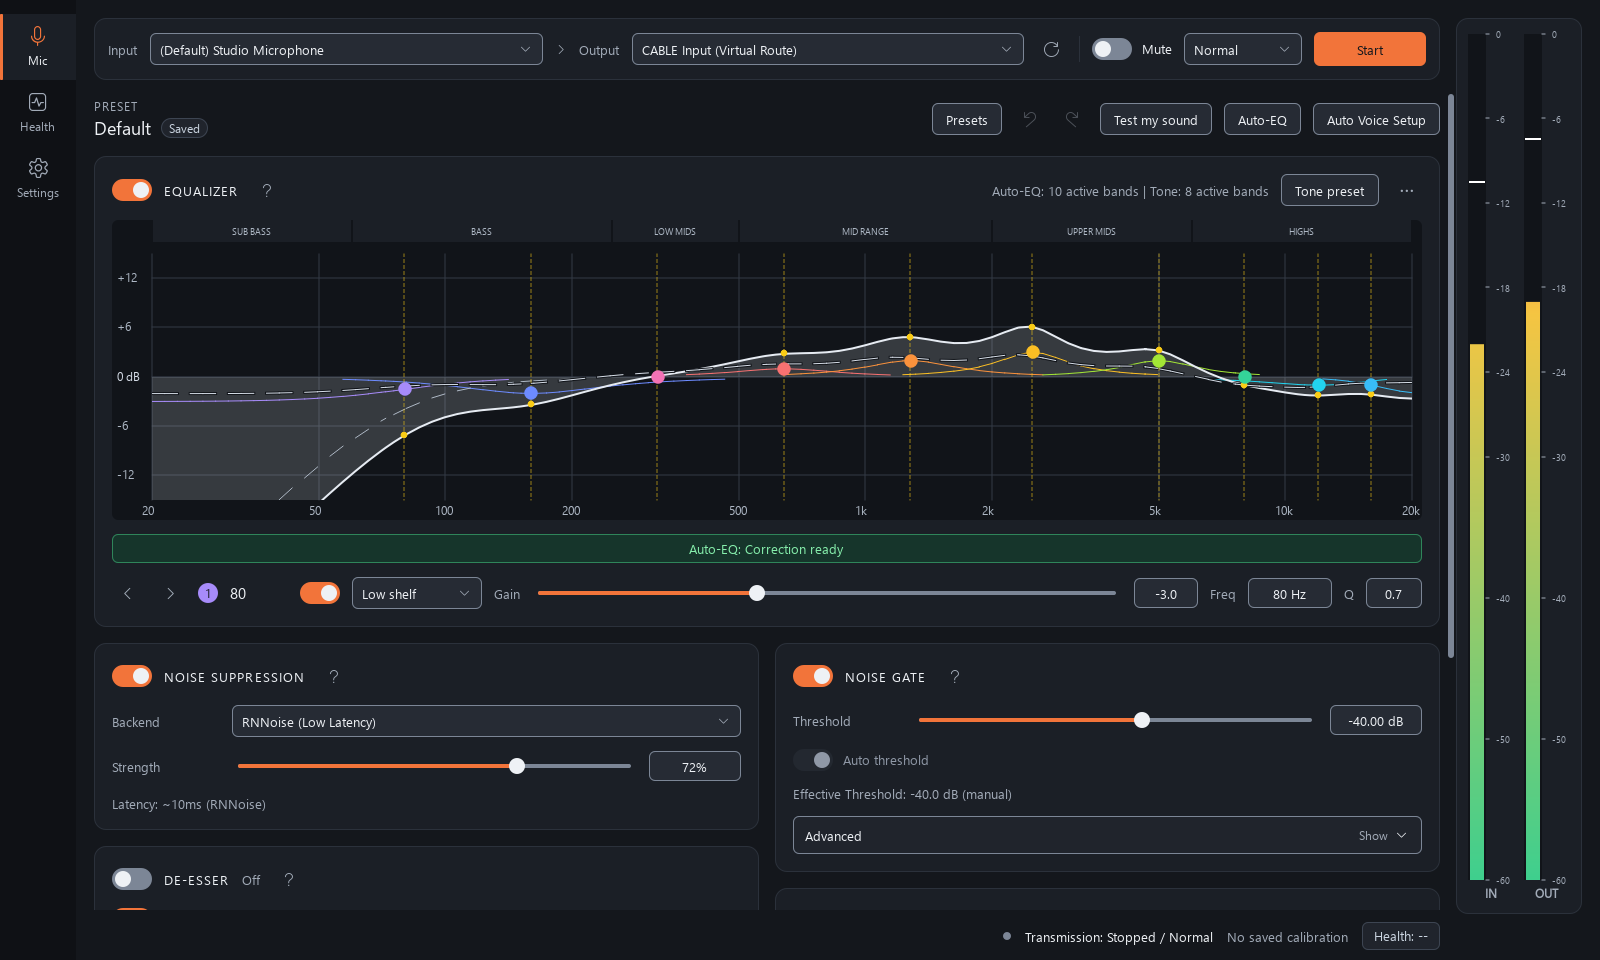
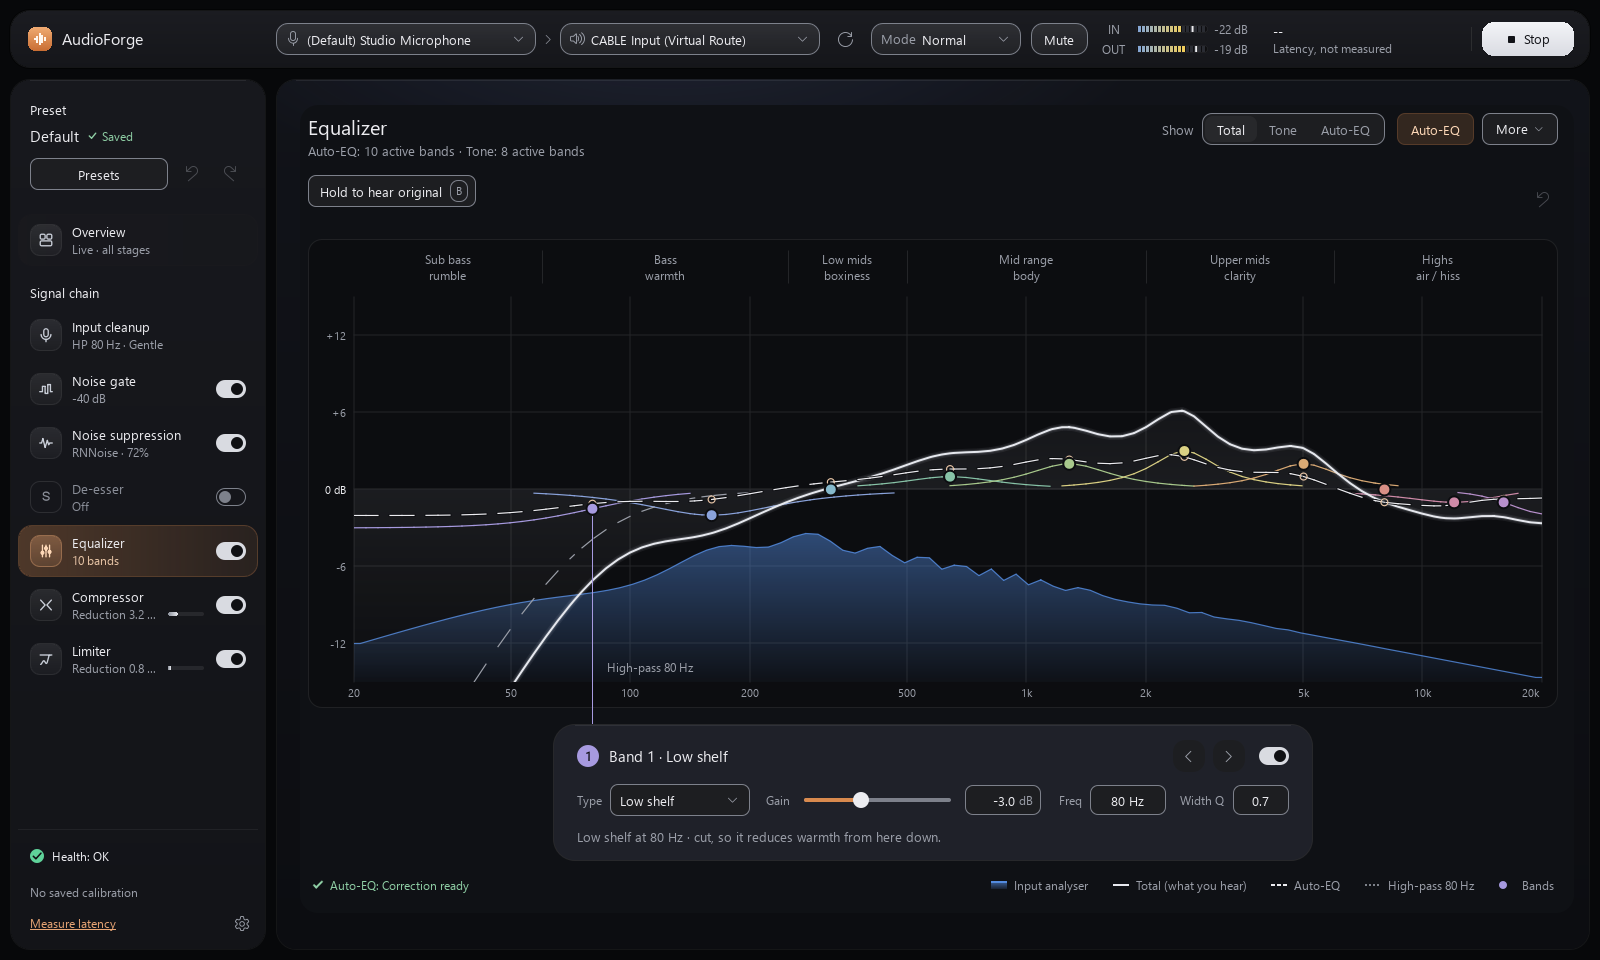
docs: capture the redesigned Overview and Equalizer for the README

diff --git a/python/tools/capture_repository_screenshots.py b/python/tools/capture_repository_screenshots.py
@@ -6,9 +6,11 @@ import argparse
 from dataclasses import dataclass
 from datetime import datetime, timezone
 import json
+import math
 import os
 from pathlib import Path
 from typing import Any, cast
+import numpy as np
 from release_provenance import sha256_file as _sha256
 from unittest.mock import patch
 
@@ -18,13 +20,14 @@ os.environ["QT_SCALE_FACTOR"] = "1"
 os.environ["QT_FONT_DPI"] = "96"
 os.environ.setdefault("AUDIOFORGE_REDUCED_MOTION", "1")
 
-from PySide6.QtCore import QByteArray, QEventLoop, QObject, QPointF, QRectF, QTimer
+from PySide6.QtCore import QByteArray, QEventLoop, QPointF, QRectF, QTimer
 from PySide6.QtGui import QFont, QFontDatabase, QImageWriter
 from PySide6.QtWidgets import QApplication, QWidget
 
 from mic_eq.config import BUILTIN_PRESETS, TARGET_CURVES, AppConfig
 from mic_eq.ui import main_window as main_window_module
 from mic_eq.ui.main_window import MainWindow
+from mic_eq.ui.quick_shell import LEVEL_HISTORY
 from mic_eq.ui.theme import apply_application_theme
 from mic_eq.ui.voice_setup_dialog import VoiceSetupDialog
 from mic_eq.ui.voice_setup_view import DYNAMICS_KEYS
@@ -59,18 +62,21 @@ SCREENSHOTS: tuple[dict[str, str], ...] = (
         "filename": "audioforge-routing-eq.png",
         "view": "routing_eq",
         "alt": (
-            "AudioForge Mic page routing a studio microphone to the CABLE Input "
-            "virtual cable, with the equalizer card drawing each band's curve, the "
-            "Auto-EQ correction, the input filter and their total, the editor for "
-            "the selected band, and level meters."
+            "AudioForge Equalizer page for a studio microphone routed to the CABLE "
+            "Input virtual cable, drawing each band's curve, the Auto-EQ correction, "
+            "the input filter and their total over the microphone's input spectrum, "
+            "with the editor for the selected band and level meters."
         ),
     },
     {
-        "filename": "audioforge-processing.png",
-        "view": "processing",
+        "filename": "audioforge-overview.png",
+        "view": "overview",
         "alt": (
-            "AudioForge cards for noise suppression, noise gate, de-esser, "
-            "compressor and limiter, each with an on/off switch."
+            "AudioForge Overview page while audio runs, with the live status, the "
+            "last ten seconds of input and output level, an equalizer summary with "
+            "buttons for Auto Voice Setup, Test my sound and Auto-EQ, and keyboard "
+            "hints, beside a sidebar listing the signal chain with an on/off switch "
+            "on each stage from noise gate to limiter."
         ),
     },
     {
@@ -172,8 +178,9 @@ def _load_capture_font(app: QApplication) -> dict[str, str]:
     if not families:
         raise RuntimeError(f"Could not load capture font: {CAPTURE_FONT_FILENAME}")
     family = families[0]
-    # Icon glyphs come from whichever system icon font this Windows ships.
-    for icon_font_filename in ("SegoeIcons.ttf", "segmdl2.ttf"):
+    # Icon glyphs come from whichever system icon font this Windows ships; Segoe UI
+    # Symbol covers the check marks and arrows Segoe UI lacks, as on a real desktop.
+    for icon_font_filename in ("SegoeIcons.ttf", "segmdl2.ttf", "seguisym.ttf"):
         QFontDatabase.addApplicationFont(str(windows_root / "Fonts" / icon_font_filename))
     app.setFont(QFont(family, 9))
     return {
@@ -257,16 +264,52 @@ def _prepare_main_window() -> MainWindow:
     return window
 
 
-def _show_running_state(window: MainWindow) -> None:
-    """Match the session controls to the live meters and health chips above.
+def _level_series() -> list[list[float]]:
+    """Ten seconds of speech-like input and output level in dB, the same on every run."""
+    series: list[list[float]] = []
+    for index in range(LEVEL_HISTORY):
+        syllables = abs(math.sin(index * 0.11)) * (0.65 + 0.35 * math.sin(index * 0.37 + 1.0))
+        # Phrases with a pause between them.
+        phrase = 1.0 if math.sin(index * 0.05 + 0.6) > -0.6 else 0.06
+        microphone = -54.0 + 36.0 * syllables * phrase
+        # The chain evens the level out a little before it reaches callers.
+        series.append([microphone, -52.0 + 31.0 * syllables * phrase])
+    return series
 
-    Tab changes refresh the session summary from the stopped processor, so this
-    runs immediately before each main-window grab.
+
+def _analyser_spectrum() -> tuple[np.ndarray, np.ndarray]:
+    """A voice-like input spectrum in dBFS on the engine's 96 log-spaced bands."""
+    bands = 96
+    centres = 20.0 * 1000.0 ** ((np.arange(bands) + 0.5) / bands)
+    octaves = np.log2(centres / 250.0)
+    shape = np.where(octaves < 0, -35.0 + 12.0 * octaves, -35.0 - 8.5 * octaves)
+    # Voice harmonics show as ripple in the low bands and fade into the high ones.
+    ripple = 3.0 * np.sin(2.0 * np.pi * centres / 130.0) * np.exp(-centres / 1500.0)
+    return np.maximum(shape + ripple, -100.0).astype(np.float32), centres.astype(np.float32)
+
+
+def _show_running_state(window: MainWindow) -> None:
+    """Make the whole window look like audio is running, not only its top bar.
+
+    The Overview and the sidebar read the session's own flag, the stop control and
+    the level history. Tab changes refresh the session summary from the stopped
+    processor, so this runs immediately before each main-window grab.
     """
+    window._processing = True
     window.start_btn_action.setEnabled(False)
     window.stop_btn_action.setEnabled(True)
     window.shell_texts["transmission_status_label"].update(text="Transmission: Running / Normal")
     window._set_health_chip("health_summary_label", "Health: OK", "ok")
+    window.processing_meters.compressor_gr.set_gain_reduction(3.2)
+    window.processing_meters.limiter_gr.set_gain_reduction(0.8)
+    bridge = window.quick_bridge
+    # The bridge would append the stopped meters' readings to the history.
+    bridge._trace_timer.stop()
+    bridge._levels.clear()
+    bridge._levels.extend(_level_series())
+    bridge.levelsChanged.emit()
+    bridge.model["sidebar"]["lines"].refresh()
+    bridge.model["overview"].refresh()
 
 
 def _prepare_voice_setup(parent: MainWindow) -> VoiceSetupDialog:
@@ -369,27 +412,29 @@ def capture_screenshots(output_dir: Path, report_path: Path) -> dict[str, Any]:
     window.show()
     app.processEvents()
     outputs: list[dict[str, Any]] = []
-    processing_scroll_position = 0
-    processing_scroll_maximum = 0
-    limiter_in_view = False
+    signal_chain_in_view = False
+    overview_state = ""
+    analyser_shown = False
     try:
         for specification in SCREENSHOTS[:2]:
+            graph_model = window.eq_presentation.graph_model
             if specification["view"] == "routing_eq":
                 window.shell_page.setIndex(MainWindow.EQUALIZER_PAGE_INDEX)
-            if specification["view"] == "processing":
+            if specification["view"] == "overview":
                 window.shell_page.setIndex(0)
-                app.processEvents()
-                scene = cast(Any, window.centralWidget()).rootObject()
-                page = scene.findChild(QObject, "overviewPage")
-                processing_scroll_maximum = max(
-                    0, round(page.property("contentHeight") - page.property("height"))
-                )
-                page.setProperty("contentY", processing_scroll_maximum)
-                processing_scroll_position = round(page.property("contentY"))
-                app.processEvents()
-                limiter_in_view = _limiter_row_in_view(scene)
             _show_running_state(window)
+            if specification["view"] == "routing_eq":
+                # The engine's spectrum is read only while the Equalizer page shows.
+                graph_model.set_input_spectrum(*_analyser_spectrum())
+            else:
+                graph_model.clear_input_spectrum()
             app.processEvents()
+            if specification["view"] == "routing_eq":
+                analyser_shown = graph_model.input_spectrum_db is not None
+            if specification["view"] == "overview":
+                scene = cast(Any, window.centralWidget()).rootObject()
+                signal_chain_in_view = _limiter_row_in_view(scene)
+                overview_state = window.quick_bridge.model["overview"].state
             # The scene draws a change on its next frame; without waiting the grab shows the one before.
             _wait_for_next_frame()
             path = output_dir / specification["filename"]
@@ -475,7 +520,9 @@ def capture_screenshots(output_dir: Path, report_path: Path) -> dict[str, Any]:
         "checks": {
             "routing_shown": True,
             "eq_shown": True,
-            "processing_shown": True,
+            "overview_shown": True,
+            "overview_running": overview_state == "live",
+            "input_analyser_shown": analyser_shown,
             "auto_voice_setup_shown": True,
             "eq_recommendation_shown": eq_recommendation_shown,
             "alt_text_present": all(bool(item["alt"].strip()) for item in outputs),
@@ -483,13 +530,12 @@ def capture_screenshots(output_dir: Path, report_path: Path) -> dict[str, Any]:
             "all_pngs_compressed": all(
                 item["bytes"] < item["width"] * item["height"] for item in outputs
             ),
-            # The limiter is the last stage of the chain the processing view shows.
-            "processing_scrolled_to_limiter": limiter_in_view,
+            # The limiter is the last stage of the chain the sidebar lists.
+            "signal_chain_in_view": signal_chain_in_view,
             "sanitized_sources_only": True,
         },
         "view_state": {
-            "processing_scroll_position": processing_scroll_position,
-            "processing_scroll_maximum": processing_scroll_maximum,
+            "overview_state": overview_state,
         },
         "screenshots": outputs,
         "source_sha256": _source_hashes(),

diff --git a/python/tests/test_repository_screenshots.py b/python/tests/test_repository_screenshots.py
@@ -51,7 +51,7 @@ def test_screenshot_selection_rejects_stale_identifiers(qapp):
 
 def test_screenshot_manifest_covers_required_views_and_alt_text() -> None:
     views = {item["view"] for item in SCREENSHOTS}
-    assert views == {"routing_eq", "processing", "voice_setup"}
+    assert views == {"routing_eq", "overview", "voice_setup"}
     assert len({item["filename"] for item in SCREENSHOTS}) == len(SCREENSHOTS)
     assert all(item["filename"].endswith(".png") for item in SCREENSHOTS)
     assert all(len(item["alt"].split()) >= 8 for item in SCREENSHOTS)
